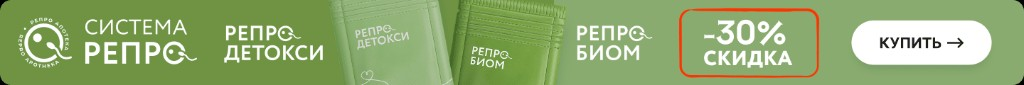
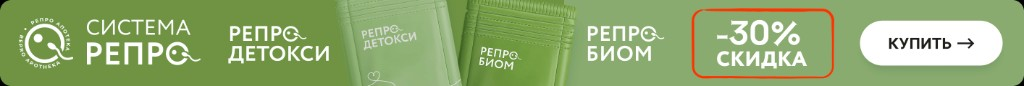
Обновить промо-баннеры и типографику заголовков FAQ.
Новые макеты нижнего баннера с актуальными пропорциями; вопросы в аккордеоне FAQ — на 15% мельче.

Changed region(s): [[0.0, 0.0, 1.0, 1.0]]

diff --git a/resources/views/site/components/lottie-banner.blade.php b/resources/views/site/components/lottie-banner.blade.php
@@ -9,7 +9,7 @@
             src="{{ asset('images/floating-banner-desktop.png') }}"
             alt="Система Репро — скидка 30%, купить"
             width="1024"
-            height="85"
+            height="86"
             decoding="async"
             class="floating-banner-img"
         />
@@ -22,8 +22,8 @@
         <img
             src="{{ asset('images/floating-banner-mobile.png') }}"
             alt="Система Репро — скидка 30%, купить"
-            width="390"
-            height="96"
+            width="780"
+            height="192"
             decoding="async"
             class="floating-banner-img"
         />
@@ -47,7 +47,7 @@
     #floating-banner-desktop a {
         display: block;
         overflow: hidden;
-        aspect-ratio: 1024 / 85;
+        aspect-ratio: 1024 / 86;
         width: 100%;
         position: relative;
         pointer-events: auto;
@@ -55,7 +55,7 @@
     #floating-banner-mobile a {
         display: block;
         overflow: hidden;
-        aspect-ratio: 390 / 96;
+        aspect-ratio: 780 / 192;
         width: 100%;
         position: relative;
         pointer-events: auto;

diff --git a/resources/views/site/faq.blade.php b/resources/views/site/faq.blade.php
@@ -198,7 +198,7 @@
         margin: 0; 
         cursor: pointer; 
         text-align: left; 
-        font-size: inherit; 
+        font-size: 0.85em;
         font-family: inherit;
         position: relative; 
     }
